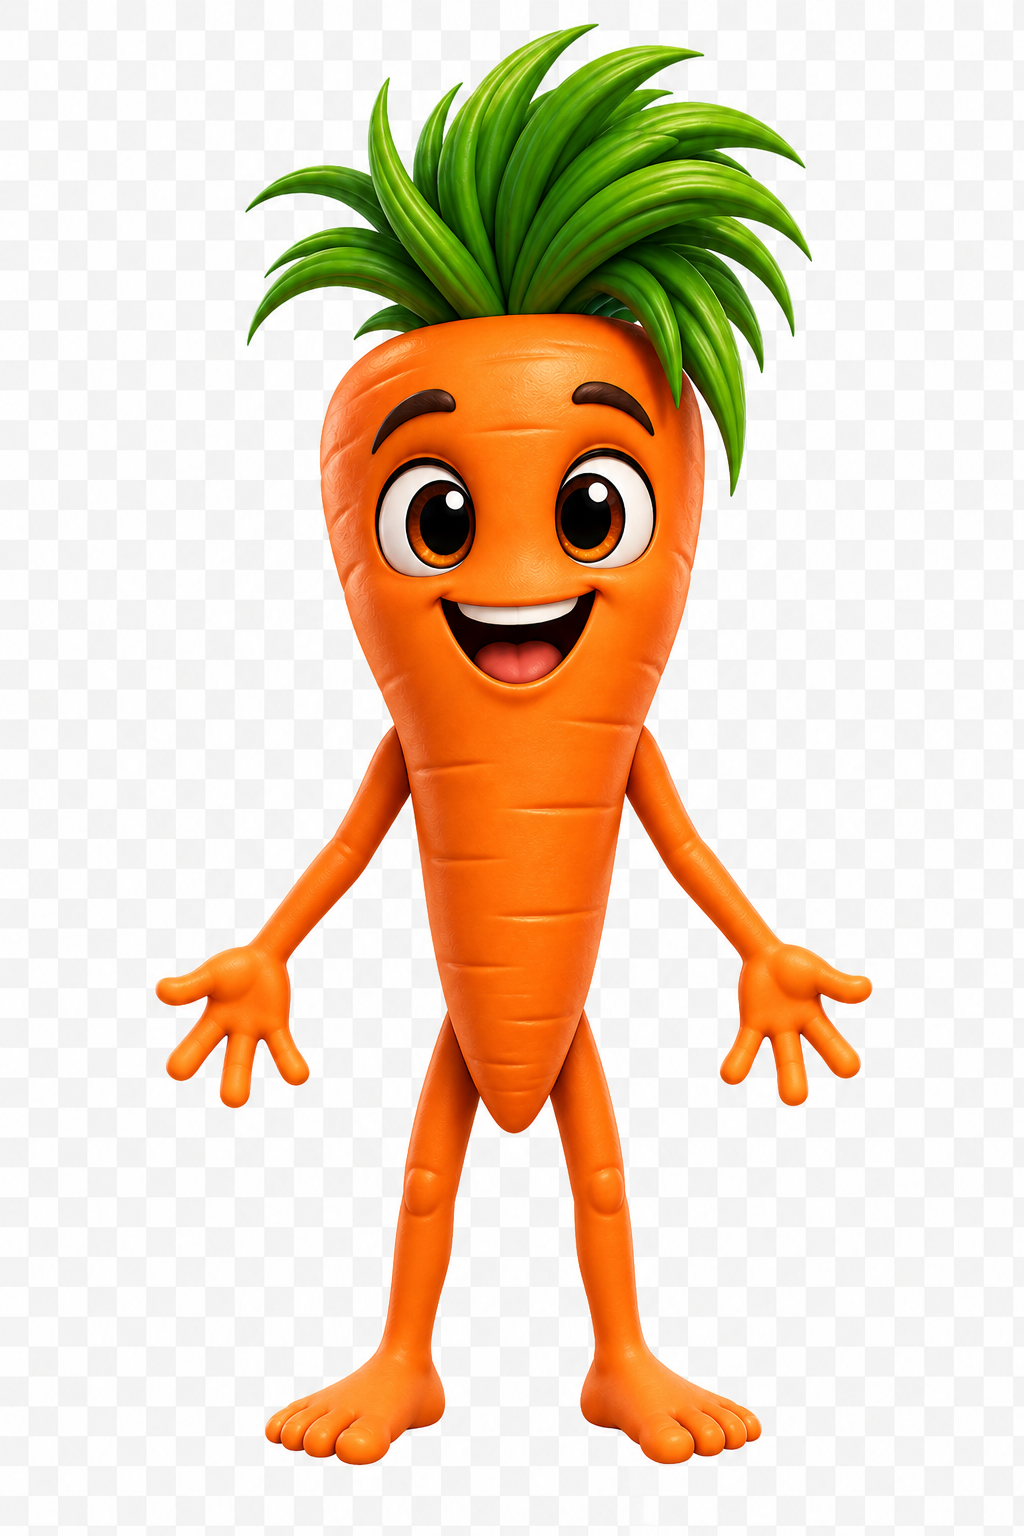
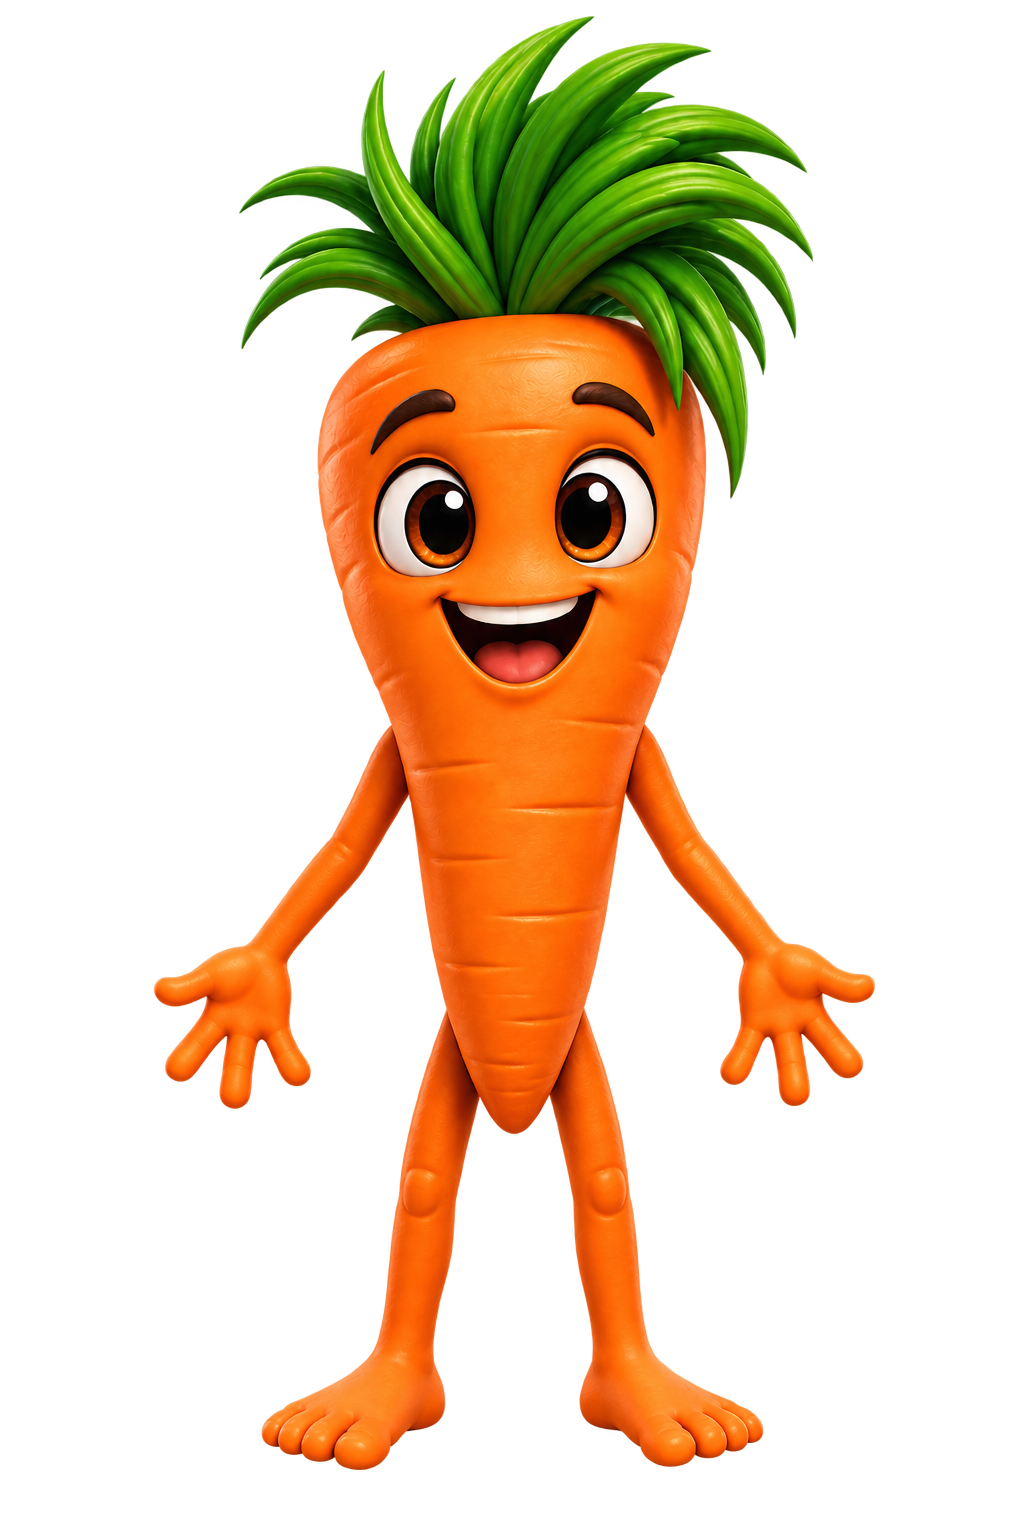
pet new3

diff --git a/index.html b/index.html
@@ -21,6 +21,6 @@
   <button data-v="puntos"><span class="ico">🏆</span>Puntos</button>
 </nav>
 
-<script src="app.js?v=8"></script>
+<script src="app.js?v=9"></script>
 </body>
 </html>
